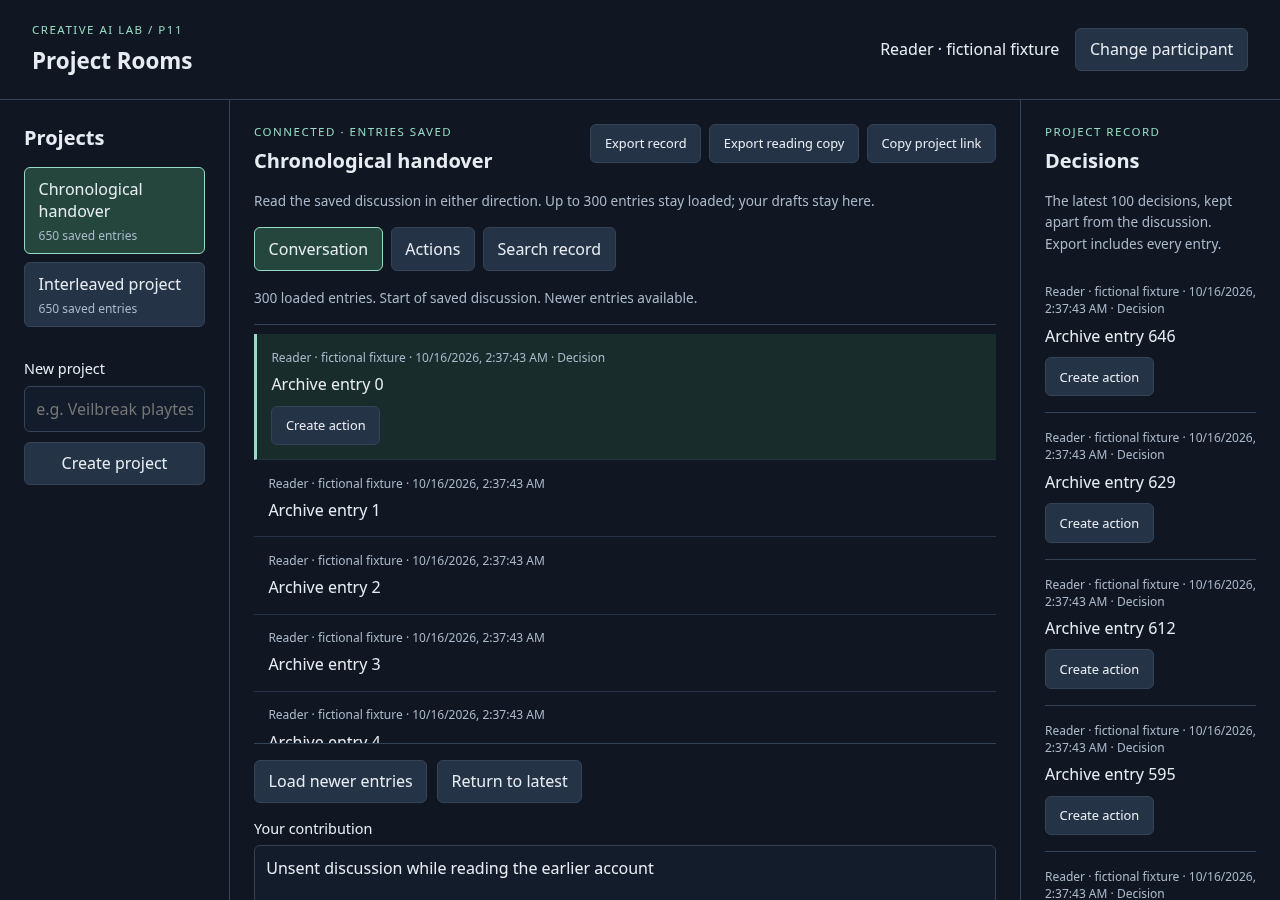
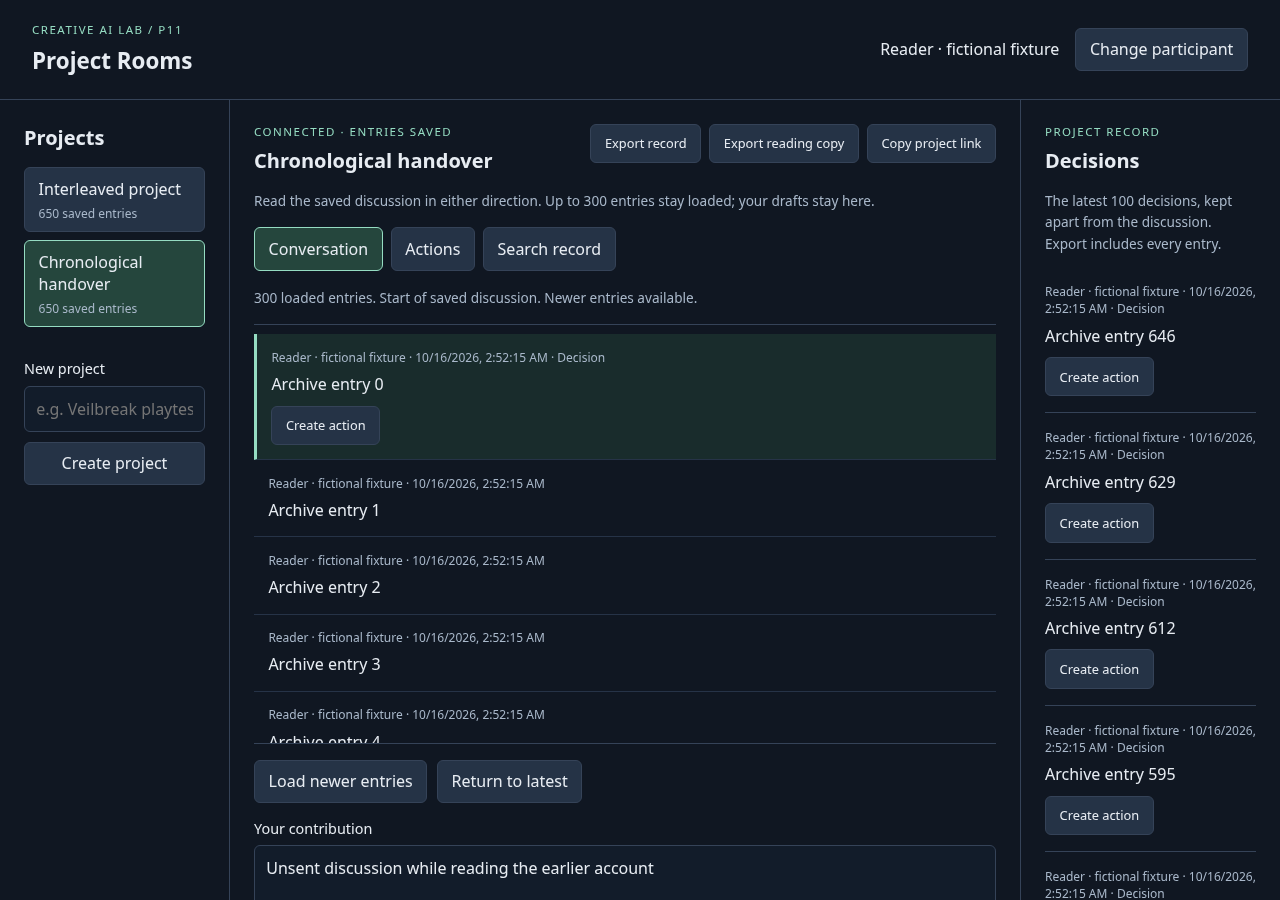
fix(rooms): confirm saved attempts recovered through history
Resolve matching own attempts from fetched saved rows when broadcast and
acknowledgement were lost. Preserve later typing and ignore a late timeout
after confirmation. Exercise real committed sends before and after timeout,
without another insert, and update source hashes, capture and continuity.

Checks: regression fails on 9ba0c7f and passes after recovery; final history
13 pass with one baseline-only skip, plus 4 existing room/receipt browser
checks. Complete P11 run: 110 pass with one baseline-only skip before the
final timeout guard, followed by those focused checks on exact release code.
Repository/link and 1134-file manifest checks pass; staged diff checked.

Keep schemas, dependencies, historical sources and the complete prompt.
Managed reader file URLs remain blocked; existing identical-HTML loopback
checks pass. No independent team, assistive, other-browser, capacity,
commercial or North Star integration validation.

Changed region(s): [[0.0, 0.1867, 0.1562, 0.3422], [0.8125, 0.9956, 0.8438, 1.0]]

diff --git a/martin-creative-ai-lab-v0.2.0/martin-creative-ai-lab/projects/realtime-integration-lab/public/studio/client.js b/martin-creative-ai-lab-v0.2.0/martin-creative-ai-lab/projects/realtime-integration-lab/public/studio/client.js
@@ -164,6 +164,8 @@ async function sendAttempt(attempt) {
     if(room?.id===target) accepted(result.message);
     notice('Entry saved.');refreshRooms().catch(()=>{});
   } catch(e) {
+    // A saved snapshot or broadcast may already have confirmed this attempt.
+    if(!e.rejected && drafts[target]?.attempt?.clientId!==attempt.clientId)return;
     if(e.rejected && drafts[target]?.attempt?.clientId===attempt.clientId) { drafts[target].attempt=null;saveDrafts(); }
     notice(e.message);
   }
@@ -188,6 +190,7 @@ async function loadHistory(direction) {
   try {
     const result=await api(`/rooms/${request.roomId}/history${query}`);
     if(!stillHere())return;
+    for(const message of result.messages)accepted(message);
     const active=document.activeElement;
     if(direction==='latest') {
       entries=result.messages;hasMore=result.hasMore;hasNewer=result.hasNewer;

diff --git a/martin-creative-ai-lab-v0.2.0/martin-creative-ai-lab/docs/STATE.md b/martin-creative-ai-lab-v0.2.0/martin-creative-ai-lab/docs/STATE.md
@@ -23,7 +23,8 @@ now traverses earlier/newer saved pages while retaining at most 300 rows.
 Directional eviction keeps a contiguous window; Return to latest fetches a fresh
 page. Historical, pending or hidden discussion views defer live insertion and
 signal newer records. Decisions/search still receive arrival updates. Own-send
-confirmation resolves outside the window without replacing later typing.
+confirmation resolves outside the window without replacing later typing. Fresh
+saved history also resolves matching uncertain attempts, without a retry insert.
 Delayed requests respect room, participant and reconnect boundaries; failed reads
 retain the window. Focus stays with an editor used during a pending request.
 
@@ -47,9 +48,12 @@ not persisted. North Star remains foundation-only with zero consumers.
 Keep the single [continuous-development prompt](prompts/CONTINUOUS_DEVELOPMENT.md)
 unchanged. Portfolio/source inspection exposed the real cap; a fixture above the
 previous 123-entry tests exposed its consequence. Artifact review and explicit
-race checks improved focus/reading behavior. Executor recovery made the prepared
-CI-only fallback unnecessary. Existing adaptive guidance already covers these
-decisions; no new operating rule is justified.
+race checks improved focus/reading behavior. The initial acknowledgement checks
+missed confirmation by fetched history; a failing-before/passing-after lost-response
+regression closed that gap before publication. The first broad run repeated a
+documented file-URL restriction; using the documented loopback mode sooner would
+have saved that failed run. Executor recovery removed the provisional CI-only
+need. Existing guidance already covers these issues; no new rule is justified.
 
 Next: compare fresh opportunities, including actual chronological handover use,
 unassisted native play/learning, physical rhythm controls and independent PT/EN

diff --git a/martin-creative-ai-lab-v0.2.0/martin-creative-ai-lab/projects/realtime-integration-lab/README.md b/martin-creative-ai-lab-v0.2.0/martin-creative-ai-lab/projects/realtime-integration-lab/README.md
@@ -93,7 +93,9 @@ While reading earlier rows, paging or using Actions/Search, new notes and decisi
 stay saved and update their record panels without displacing the conversation.
 A newer-entry signal offers explicit navigation. It is an availability signal,
 not an exact unread count. Your own confirmed send resolves its pending attempt
-even when that row belongs beyond the current window. Later typing stays intact.
+even when that row belongs beyond the current window. Fetching a saved page also
+confirms a matching uncertain own attempt, without another send. Later typing
+stays intact.
 At the visible current end, arrivals continue to follow normally.
 
 Failed requests retain the window and allow retry. Room, identity and reconnect

diff --git a/martin-creative-ai-lab-v0.2.0/martin-creative-ai-lab/docs/DECISIONS.md b/martin-creative-ai-lab-v0.2.0/martin-creative-ai-lab/docs/DECISIONS.md
@@ -1508,7 +1508,9 @@ adds cost without giving better control. No schema or dependency change.
 
 Freeze historical/paging/hidden windows during arrivals; update record panels
 and announce newer availability without an exact unread-count claim. Resolve
-own attempts before deferring rendering. Keep drafts, action work and search.
+own attempts before deferring rendering, including matching saved rows recovered
+by HTTP history when broadcast/acknowledgement were lost. Keep drafts, action
+work and search.
 Preserve retained visible/focused rows; guard delayed success/error/finally by
 room/identity/generation/request. Retain the window on failure. Do not reclaim
 focus from an editor used during a request. Reconnect still opens latest.
